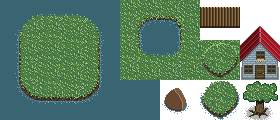
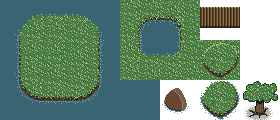
Add multiple colliders and render order

Changed region(s): [[0.8571, 0.225, 1.0, 0.675]]

diff --git a/res/guy.tsx b/res/guy.tsx
@@ -4,6 +4,7 @@
  <tile id="0">
   <objectgroup draworder="index" id="2">
    <object id="1" x="6.75" y="2.5" width="21.625" height="35.75"/>
+   <object id="2" type="zcollider" x="9.5" y="35.375" width="9.75" height="2.75"/>
   </objectgroup>
   <animation>
    <frame tileid="0" duration="200"/>
@@ -16,6 +17,7 @@
  <tile id="6">
   <objectgroup draworder="index" id="2">
    <object id="1" x="4.36364" y="3.45455" width="24" height="35.0909"/>
+   <object id="2" type="ycollider" x="4.25" y="33" width="22.25" height="5.25"/>
   </objectgroup>
   <animation>
    <frame tileid="6" duration="10"/>

diff --git a/res/obstacles.tsx b/res/obstacles.tsx
@@ -1,0 +1,10 @@
+<?xml version="1.0" encoding="UTF-8"?>
+<tileset version="1.10" tiledversion="1.11.2" name="obstacles" tilewidth="40" tileheight="53" tilecount="1" columns="0">
+ <grid orientation="orthogonal" width="1" height="1"/>
+ <tile id="0">
+  <image source="house.png" width="40" height="53"/>
+  <objectgroup draworder="index" id="2">
+   <object id="1" x="2.125" y="34.875" width="35.625" height="17.75"/>
+  </objectgroup>
+ </tile>
+</tileset>

diff --git a/src/tilemap.c b/src/tilemap.c
@@ -1,5 +1,6 @@
 #include "tilemap.h"
 #include "arena.h"
+#include "component.h"
 #include "texture.h"
 #include "utils/utils.h"
 #include <SDL3/SDL_rect.h>
@@ -237,12 +238,17 @@ static void parse_object_layer(GameState* state, const char* layer_type, tmx_obj
 
 static SDL_Texture* get_tileset_texture(TextureManager* texmgr, tmx_tile* tile)
 {
-    tmx_tileset* tileset = tile->tileset;
-    if (!tileset) {
-        util_error("no tileset");
-        return NULL;
+    const char* tilesetimg;
+    if (tile->image) {
+        tilesetimg = tile->image->source;
+    } else {
+        tmx_tileset* tileset = tile->tileset;
+        if (!tileset) {
+            util_error("no tileset");
+            return NULL;
+        }
+        tilesetimg = tileset->image->source;
     }
-    const char* tilesetimg = tileset->image->source;
 
     u8 slen = 5 + strlen(tilesetimg);
     char texid[255];
@@ -289,13 +295,24 @@ static Entity parse_entity(EntityManager* entmgr, TextureManager* texmgr, tmx_ob
     }
 
     if (tile->collision) {
-        box_collider_add(entmgr,
-                         ent,
-                         (Vector2){.w = tile->collision->width, .h = tile->collision->height},
-                         (Vector2){
-                             .x = tile->collision->x,
-                             .y = tile->collision->y,
-                         });
+        tmx_object* collider = tile->collision;
+
+        while (collider) {
+            ColliderType type = COLLIDER_TYPE_GENERIC;
+
+            if (collider->type && strncmp(collider->type, "ycollider", strlen("ycollider")) == 0) {
+                type = COLLIDER_TYPE_Z;
+            }
+            box_collider_add(entmgr,
+                             ent,
+                             (Vector2){.w = tile->collision->width, .h = tile->collision->height},
+                             (Vector2){
+                                 .x = tile->collision->x,
+                                 .y = tile->collision->y,
+                             },
+                             type);
+            collider = collider->next;
+        }
     }
 
     if (tile->animation) {

diff --git a/src/system.c b/src/system.c
@@ -8,7 +8,7 @@
 #include <stdio.h>
 
 static bool check_aabb_collision(f64 ax, f64 ay, f64 aw, f64 ah, f64 bx, f64 by, f64 bw, f64 bh);
-static int cmp_id_by_rect_y(const void* a, const void* b);
+static int cmp_ents_by_y(const void* a, const void* b);
 
 // ------------------------------------------------------------------------------------------------
 // Update systems
@@ -319,7 +319,7 @@ void sys_render_entities(GameState* state, Entity _, SystemCtx* ctx)
         ents_to_render[n_ents++] = e;
     }
 
-    qsort(ents_to_render, n_ents, sizeof(Entity), cmp_id_by_rect_y);
+    qsort(ents_to_render, n_ents, sizeof(Entity), cmp_ents_by_y);
 
     for (size_t i = 0; i < n_ents; ++i) {
         Entity e = ents_to_render[i];
@@ -429,9 +429,11 @@ static bool check_aabb_collision(f64 ax, f64 ay, f64 aw, f64 ah, f64 bx, f64 by,
     return ax < bx + bw && ax + aw > bx && ay < by + bh && ay + ah > by;
 }
 
-static int cmp_id_by_rect_y(const void* a, const void* b)
+static int cmp_ents_by_y(const void* a, const void* b)
 {
     Entity e1 = *(const Entity*)a;
     Entity e2 = *(const Entity*)b;
-    return state.entmgr->transform_comps[e1].pos.y - state.entmgr->transform_comps[e2].pos.y;
+    f32 e1_bottom_y = state.entmgr->transform_comps[e1].pos.y + state.entmgr->sprite_comps[e1].size.y;
+    f32 e2_bottom_y = state.entmgr->transform_comps[e2].pos.y + state.entmgr->sprite_comps[e2].size.y;
+    return e1_bottom_y - e2_bottom_y;
 }

diff --git a/src/component.h b/src/component.h
@@ -79,10 +79,16 @@ typedef struct {
     Vector2 right_vel;
 } MouseControlComponent;
 
+typedef enum {
+    COLLIDER_TYPE_GENERIC = 0,
+    COLLIDER_TYPE_Z,
+} ColliderType;
+
 typedef struct {
     Vector2 size;
     Vector2 offset;
     SDL_Color colour;
+    ColliderType type;
 } BoxColliderComponent;
 
 typedef struct {
@@ -110,7 +116,7 @@ void keyboard_control_add(EntityManager* entmgr, Entity e);
 void keyboard_control_remove(EntityManager* entmgr, Entity e);
 void mouse_control_add(EntityManager* entmgr, Entity e, MouseControlComponent m);
 void mouse_control_remove(EntityManager* entmgr, Entity e);
-void box_collider_add(EntityManager* entmgr, Entity e, Vector2 size, Vector2 offset);
+void box_collider_add(EntityManager* entmgr, Entity e, Vector2 size, Vector2 offset, ColliderType type);
 void box_collider_remove(EntityManager* entmgr, Entity e);
 void rigid_body_add(EntityManager* entmgr, Entity e, Vector2 v, Vector2 np);
 void rigid_body_remove(EntityManager* entmgr, Entity e);

diff --git a/src/game.c b/src/game.c
@@ -57,7 +57,7 @@ bool game_init(MemoryArena* game_mem)
     sysmgr_register_render_sys(state.sysmgr, SYS_SIG_RENDER, sys_render_entities, NULL);
     sysmgr_register_render_sys(state.sysmgr, SYS_SIG_TILEMAP_RENDER, sys_render_tilemap, NULL);
     sysmgr_register_render_sys(state.sysmgr, SYS_SIG_TILEMAP_RENDER, sys_render_tilemap_collider, NULL);
-    sysmgr_register_render_sys(state.sysmgr, SYS_SIG_RENDER_COLLIDER, sys_render_render_collider, NULL);
+    sysmgr_register_render_sys(state.sysmgr, SYS_SIG_RENDER_COLLIDER, sys_render_collider, NULL);
     sysmgr_register_render_sys(state.sysmgr, SYS_SIG_ANIMATION, sys_render_animation, NULL);
 
     sysmgr_register_update_sys(state.sysmgr, SYS_SIG_APPLY, sys_update_apply, NULL);

diff --git a/src/system.h b/src/system.h
@@ -124,7 +124,7 @@ void sys_update_debug(GameState* state, Entity e, SystemCtx* ctx);
 void sys_render_entities(GameState* state, Entity e, SystemCtx* ctx);
 void sys_render_tilemap(GameState* state, Entity e, SystemCtx* ctx);
 void sys_render_tilemap_collider(GameState* state, Entity e, SystemCtx* ctx);
-void sys_render_render_collider(GameState* state, Entity e, SystemCtx* ctx);
+void sys_render_collider(GameState* state, Entity e, SystemCtx* ctx);
 void sys_render_animation(GameState* state, Entity e, SystemCtx* ctx);
 
 #endif // !SYSTEM_H_

diff --git a/src/texture.c b/src/texture.c
@@ -51,8 +51,10 @@ void* texmgr_load_texture(const char* fname)
         util_error("Failed to create texture: %s", SDL_GetError());
         return NULL;
     }
-    SDL_SetTextureScaleMode(tex, SDL_SCALEMODE_NEAREST);
     SDL_DestroySurface(surface);
+
+    // SDL_SetTextureBlendMode(tex, SDL_BLENDMODE_BLEND);
+    SDL_SetTextureScaleMode(tex, SDL_SCALEMODE_NEAREST);
 
     size_t fnamelen = strlen(fname);
     char* texid = (char*)arena_alloc_aligned(game_mem, fnamelen, 16);

diff --git a/src/component.c b/src/component.c
@@ -103,7 +103,7 @@ void mouse_control_remove(EntityManager* entmgr, Entity e)
     SIGNATURE_CLEAR(entmgr->signatures[e], COMP_MOUSE_CONTROL);
 }
 
-void box_collider_add(EntityManager* entmgr, Entity e, Vector2 size, Vector2 offset)
+void box_collider_add(EntityManager* entmgr, Entity e, Vector2 size, Vector2 offset, ColliderType type)
 {
     if (e >= MAX_ENTITIES || !entmgr->live_entities[e]) return;
 

diff --git a/notes.md b/notes.md
@@ -6,6 +6,7 @@
 - [ ] Make UI layer
 - [x] Static objects i.e. don't have rigid body, can't collide with each other
 - [ ] Tile collisions
+    - [ ] multiple colliders per entity
     - [ ] other shapes
 
 # Research
